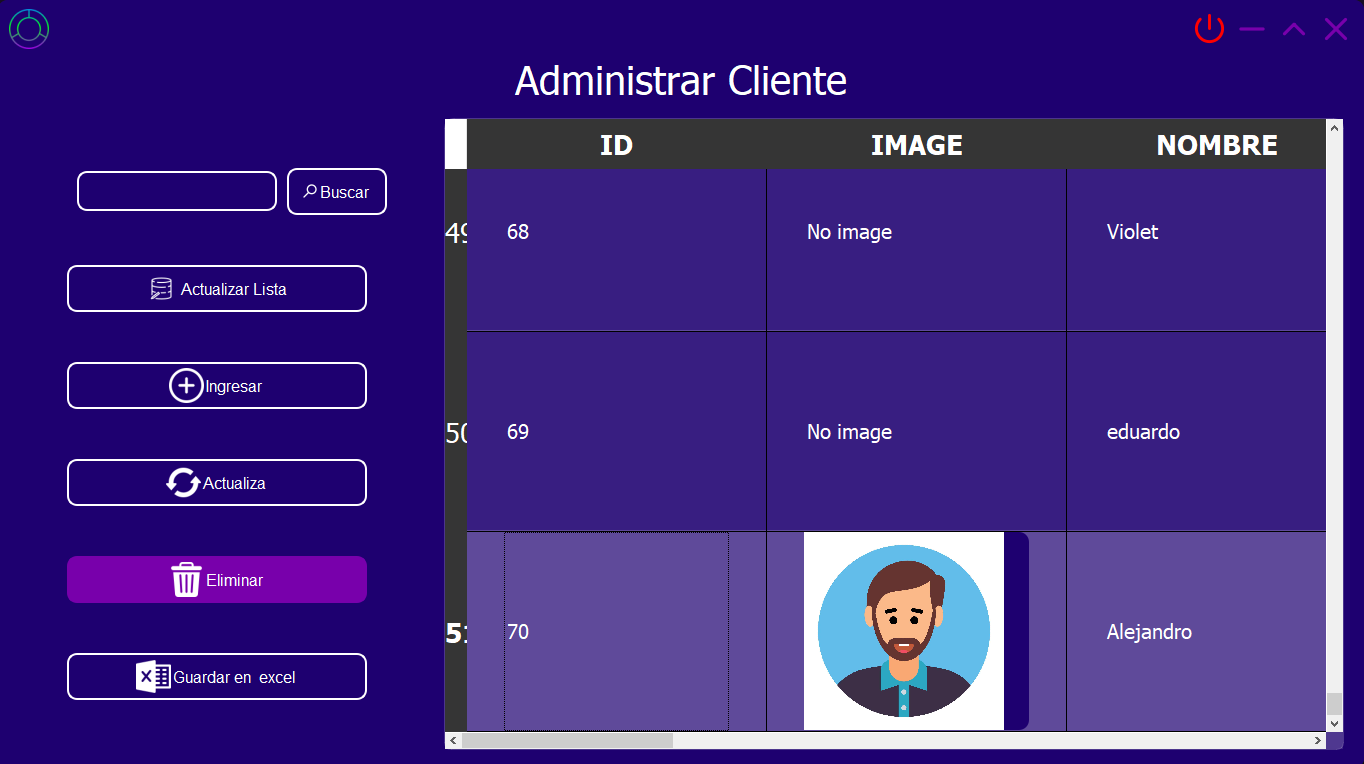
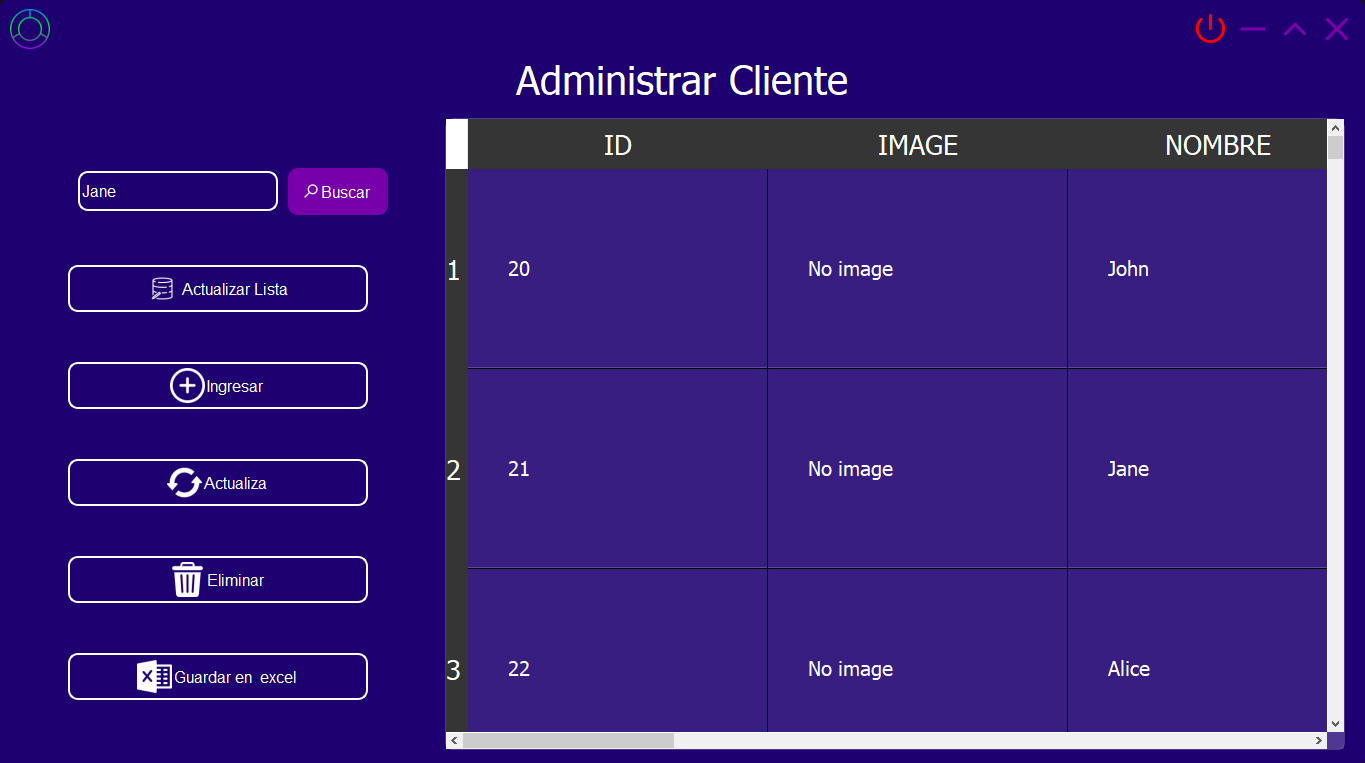
update

diff --git a/main__.py b/main__.py
@@ -6,9 +6,6 @@ imagenes = [
     "img/img-2.png",
     "img/img-3.png",
     "img/img-4.png",
-    "img/img-5.png",
-    "img/img-6.png",
-    "img/img-7.png",
 ]
 
 # Abrir las imágenes
@@ -16,7 +13,7 @@ frames = [Image.open(imagen) for imagen in imagenes]
 
 # Crear el GIF
 frames[0].save(
-    "theme-update-client-admin.gif",
+    "theme-search-client-admin.gif",
     save_all=True,
     append_images=frames[1:],
     duration=2000,  # Duración de cada cuadro en milisegundos
